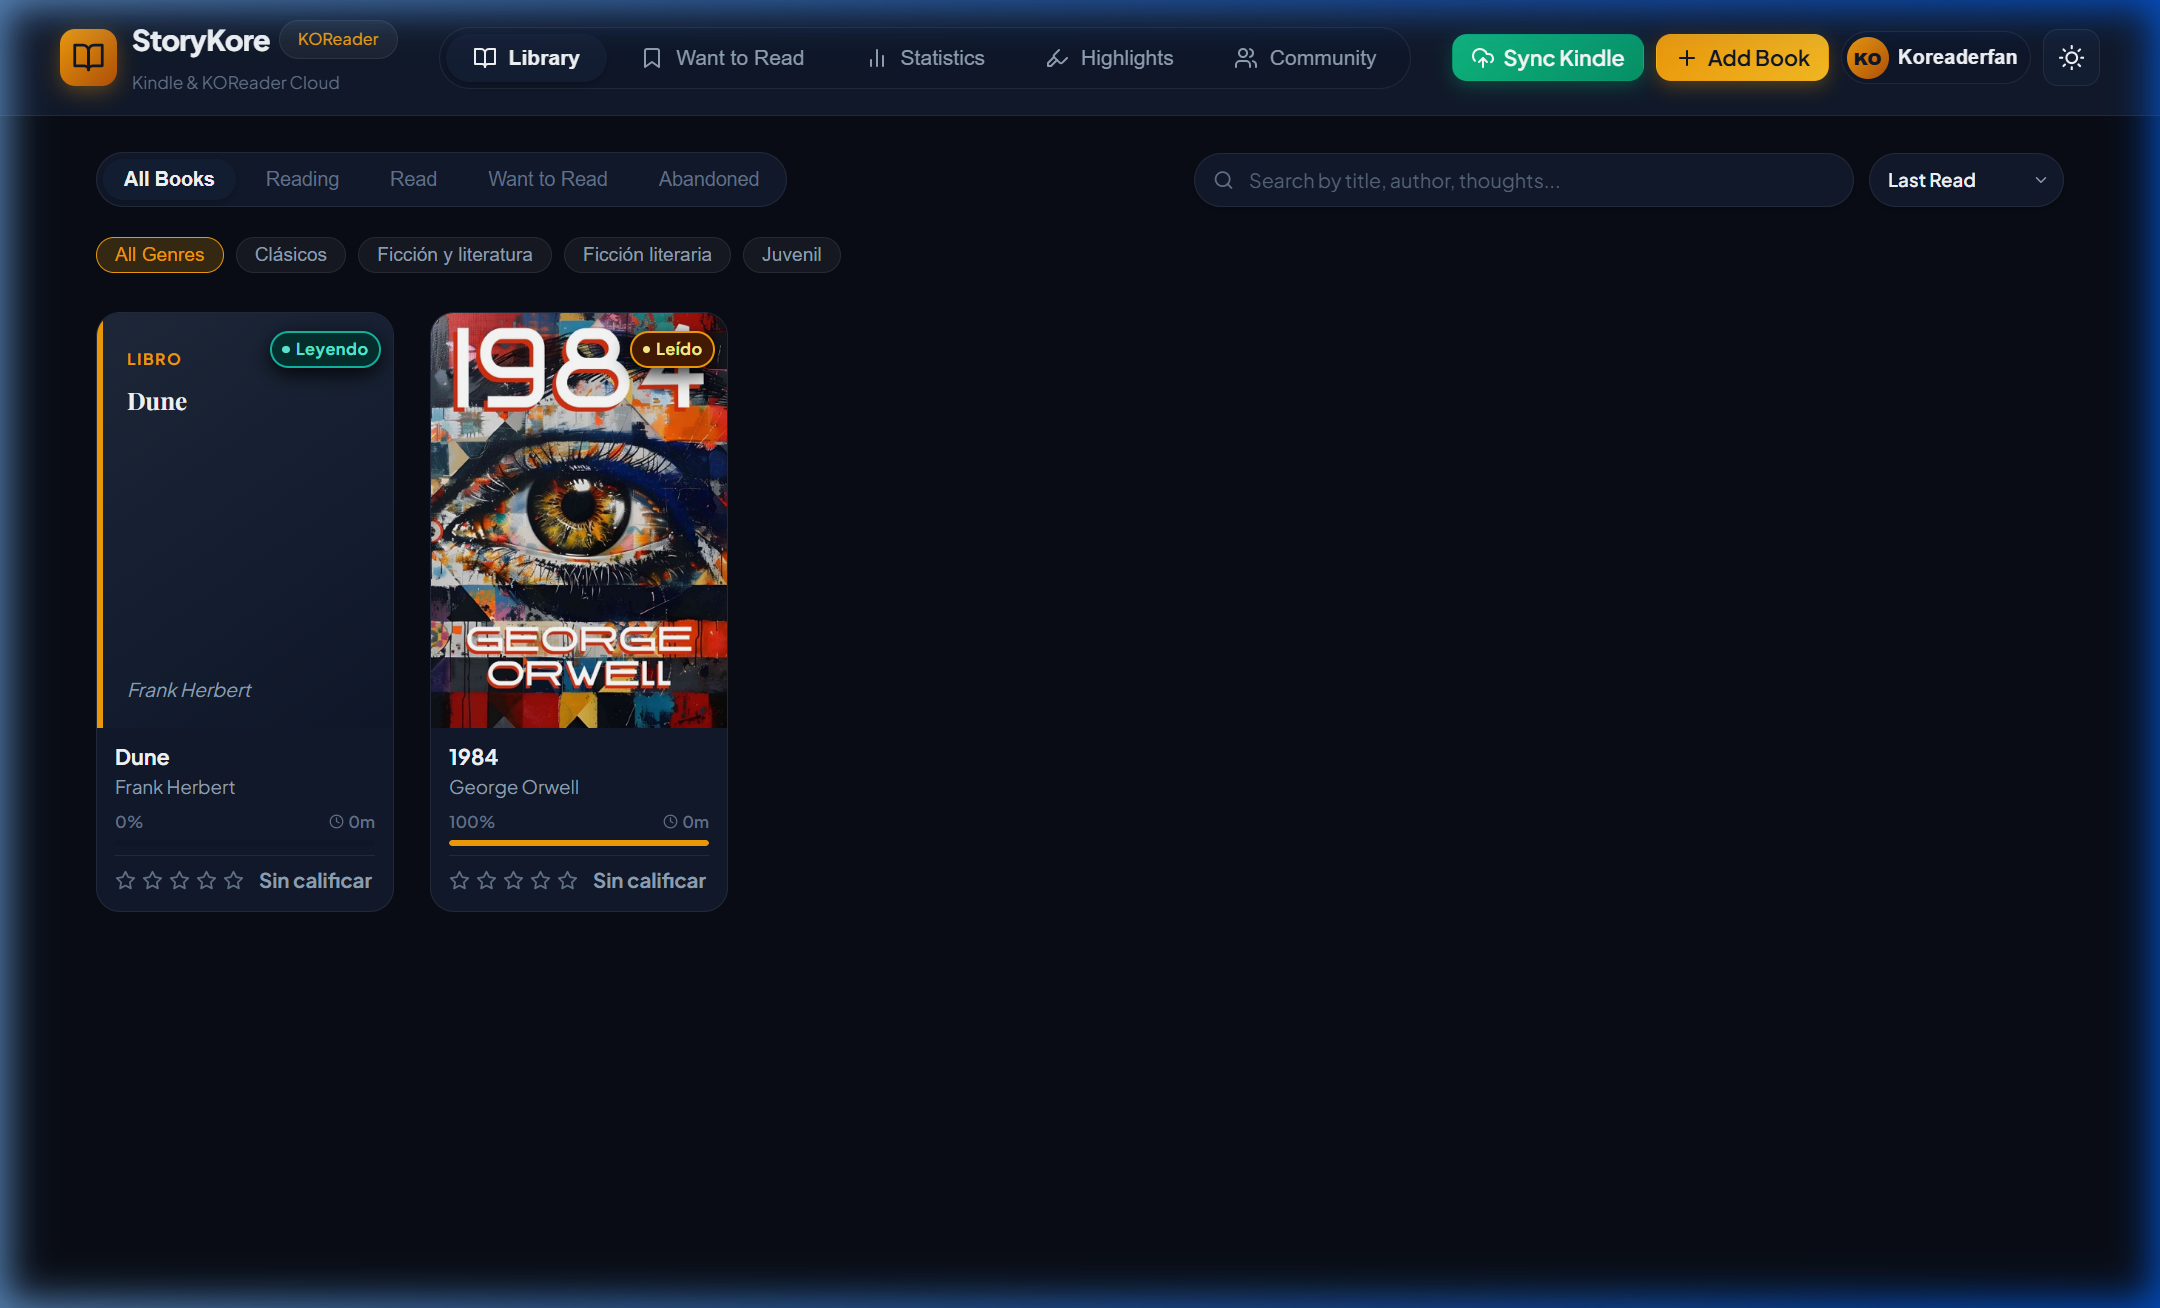
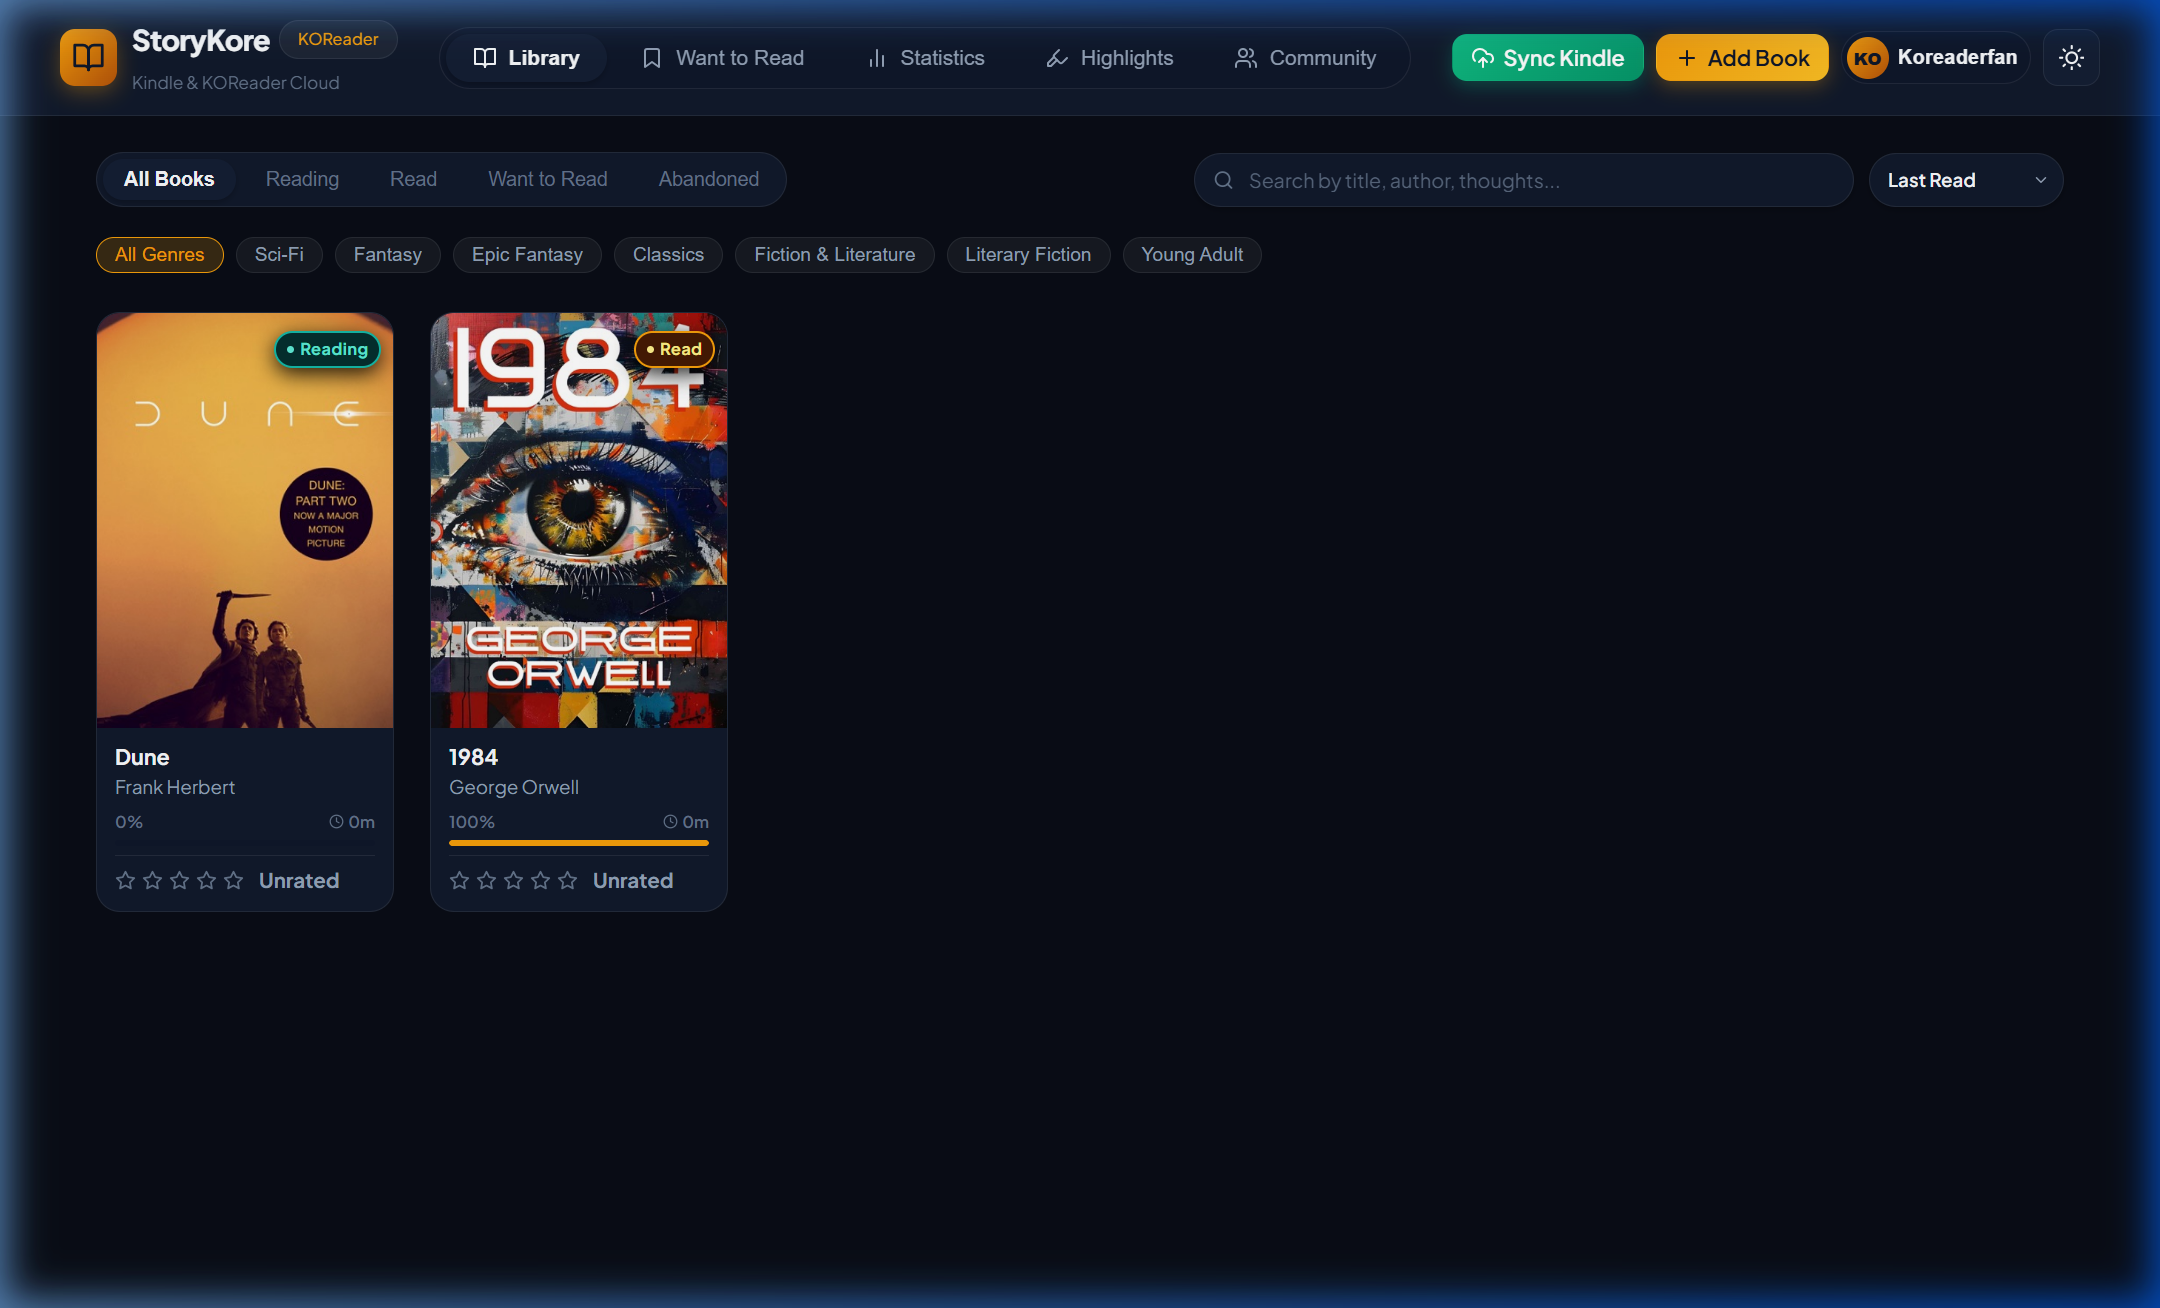
docs: sanitize readme infrastructure details and update english screenshots

diff --git a/README.md b/README.md
@@ -117,7 +117,7 @@ storykore.koplugin/
 3. Select the **StoryKore** menu:
    - Tap **Username:** and enter your StoryKore username or email.
    - Tap **Password:** and enter your password.
-   *(Note: The server URL defaults automatically to `https://storykore.onrender.com` — no need to type long URLs on your e-ink screen!)*
+   *(Note: The plugin connects directly to the StoryKore platform automatically — no need to type long URLs on your e-ink screen!)*
 4. Tap **Test connection**: KOReader will verify your credentials and confirm that everything is connected.
 
 ---
